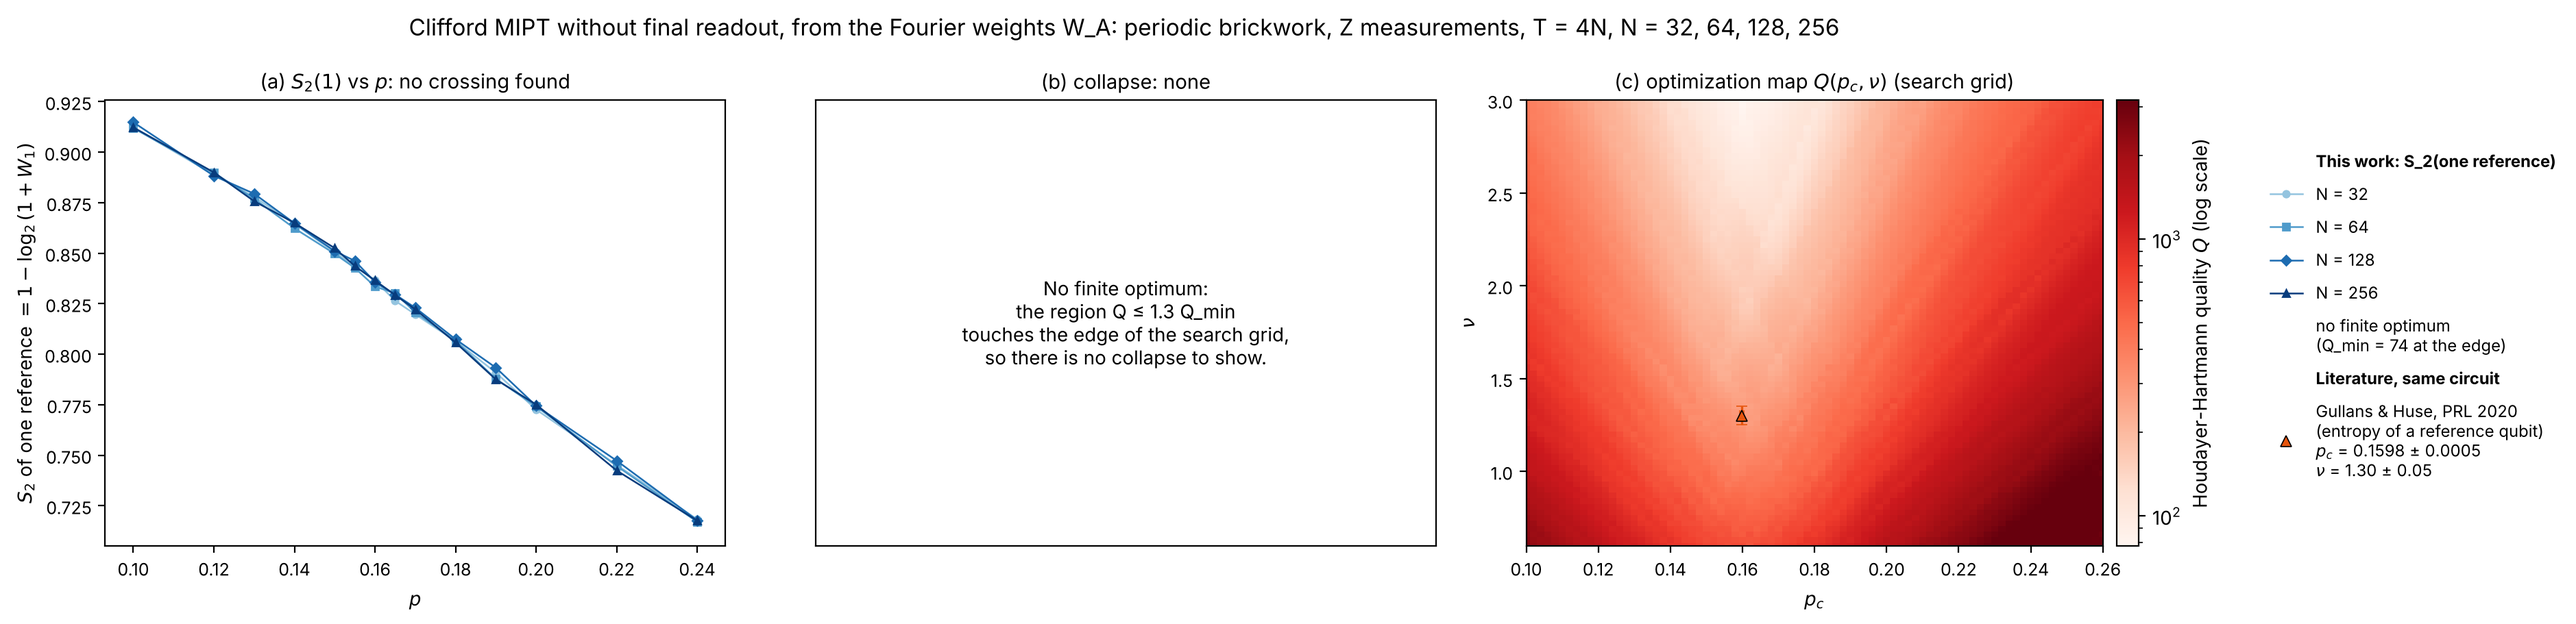
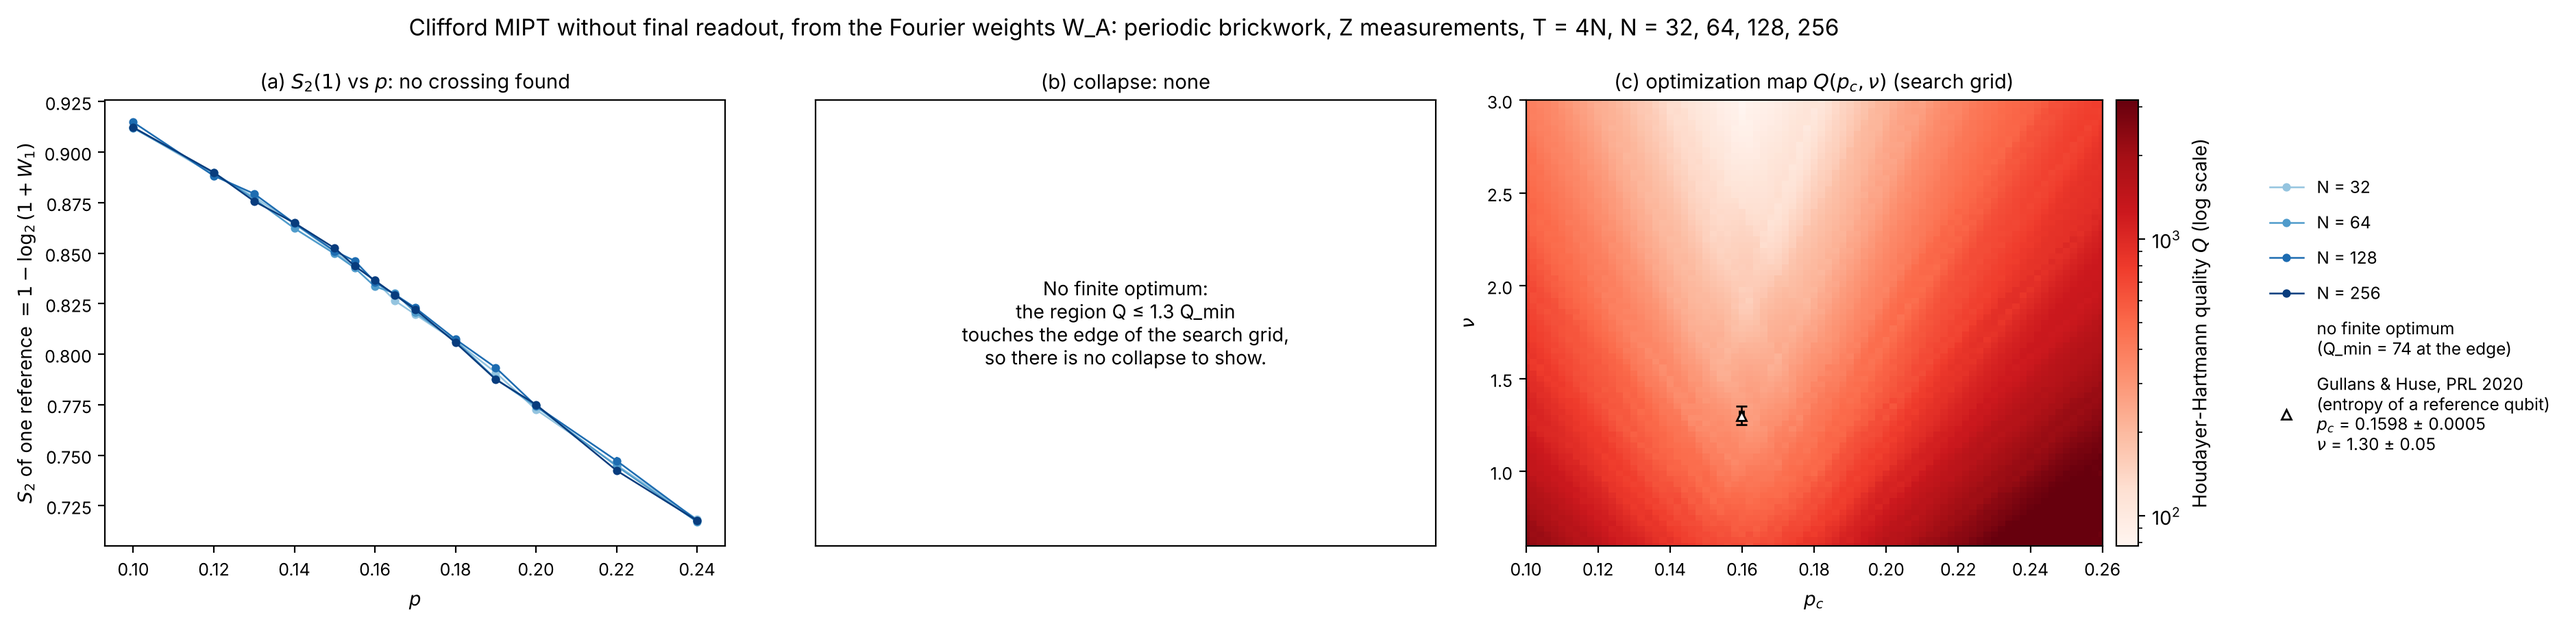
No-readout methodology figures: same style as the T = 2N Clifford figure
One simple marker for every N, literature as an open black triangle, no
legend group headers. All p kept, as before.

Refs #385

Claude-Session: https://claude.ai/code/session_0185MugwZk6ZrDkkL1g7UFMb

diff --git a/experiments/collapse_error_budget/no_readout_methodology.py b/experiments/collapse_error_budget/no_readout_methodology.py
@@ -21,7 +21,7 @@ recomputed with the exact Houdayer-Hartmann quality. Each figure:
 (b) collapse at the optimum;
 (c) ``Q(p_c, nu)`` in red, light near ``Q_min`` and dark for high ``Q``, the
     contour ``Q = 1.3 Q_min``, the optimum with its bars, the literature
-    value for the same circuit in orange.
+    value for the same circuit (open triangle).
 
 When the region touches the edge of the search grid (no finite optimum),
 panel (b) says so and panel (c) shows the search grid. The runs are not in
@@ -56,8 +56,7 @@ from QELM.evaluation.finite_size_scaling import (  # noqa: E402
 RATIO = 4
 FACTOR = 1.3
 BLUE = "#08306b"
-ORANGE = "#e6550d"
-MARKERS = ["o", "s", "D", "^", "v", "P"]
+MARKERS = ["o"] * 6  # same simple marker for every N, as clifford_methodology
 STYLE = {"ms": 3.4, "lw": 0.9, "elinewidth": 0.8, "capsize": 0}
 SEARCH = ((0.10, 0.26), (0.6, 3.0))  # search grid of the analysis
 NU = r"$\nu$"
@@ -239,9 +238,8 @@ def panel_c(ax: Any, fig: Any, c: dict[int, Curve], o: dict[str, Any],
                     mec="white", mew=0.8, capsize=3, lw=1.3, zorder=4)  # fmt: skip
     on_map = pcs[0] <= lit[1] <= pcs[-1] and nus[0] <= lit[3] <= nus[-1]
     if on_map:
-        ax.errorbar(lit[1], lit[3], xerr=lit[2], yerr=lit[4], fmt="^", ms=5.5,
-                    color=ORANGE, mec="k", mew=0.6, capsize=3, lw=1.2,
-                    zorder=4)  # fmt: skip
+        ax.errorbar(lit[1], lit[3], xerr=lit[2], yerr=lit[4], fmt="^", ms=5,
+                    color="k", mfc="white", capsize=3, lw=1.0, zorder=4)  # fmt: skip
     ax.set_xlim(pcs[0], pcs[-1])
     ax.set_ylim(nus[0], nus[-1])
     ax.set_xlabel("$p_c$")
@@ -271,8 +269,8 @@ def figure(model: str, obs: str, fit: dict[str, Any], runs: Path, out: Path) -> 
 
     sizes = sorted(c)
     blank = Line2D([], [], ls="none", marker="")
-    handles: list[Any] = [blank]
-    labels = [f"This work: {o['plain']}"]
+    handles: list[Any] = []
+    labels: list[str] = []
     for k, (col, n) in enumerate(zip(blues(len(sizes)), sizes, strict=True)):
         handles.append(Line2D([], [], color=col, marker=MARKERS[k], ms=3.4, lw=0.9))
         labels.append(f"N = {n}")
@@ -292,20 +290,13 @@ def figure(model: str, obs: str, fit: dict[str, Any], runs: Path, out: Path) -> 
     else:
         labels.append(f"no finite optimum\n(Q_min = {fit['Q_min']:.0f} at the edge)")
         handles.append(blank)
-    handles += [
-        blank,
-        Line2D([], [], color=ORANGE, marker="^", ms=5.5, mec="k", mew=0.6, ls="none"),
-    ]
+    handles += [Line2D([], [], color="k", marker="^", mfc="white", ms=5, ls="none")]
     labels += [
-        "Literature, same circuit",
         f"{lit[0]}\n$p_c$ = {lit[1]} ± {lit[2]}\n{NU} = {lit[3]:.2f} ± {lit[4]}"
         + ("" if on_map else "\n(outside the map)"),
     ]
-    leg = fig.legend(handles, labels, loc="center left", bbox_to_anchor=(1.0, 0.5),
-                     frameon=False, fontsize=8.6, labelspacing=0.8)  # fmt: skip
-    for t in leg.get_texts():
-        if t.get_text().startswith(("This work", "Literature")):
-            t.set_fontweight("bold")
+    fig.legend(handles, labels, loc="center left", bbox_to_anchor=(1.0, 0.5),
+               frameon=False, fontsize=8.8, labelspacing=0.9)  # fmt: skip
     fig.suptitle(f"{TITLE[model]} MIPT without final readout, from the Fourier weights "
                  f"W_A: periodic brickwork, Z measurements, T = 4N, N = "
                  f"{', '.join(map(str, sizes))}", fontsize=12)  # fmt: skip
